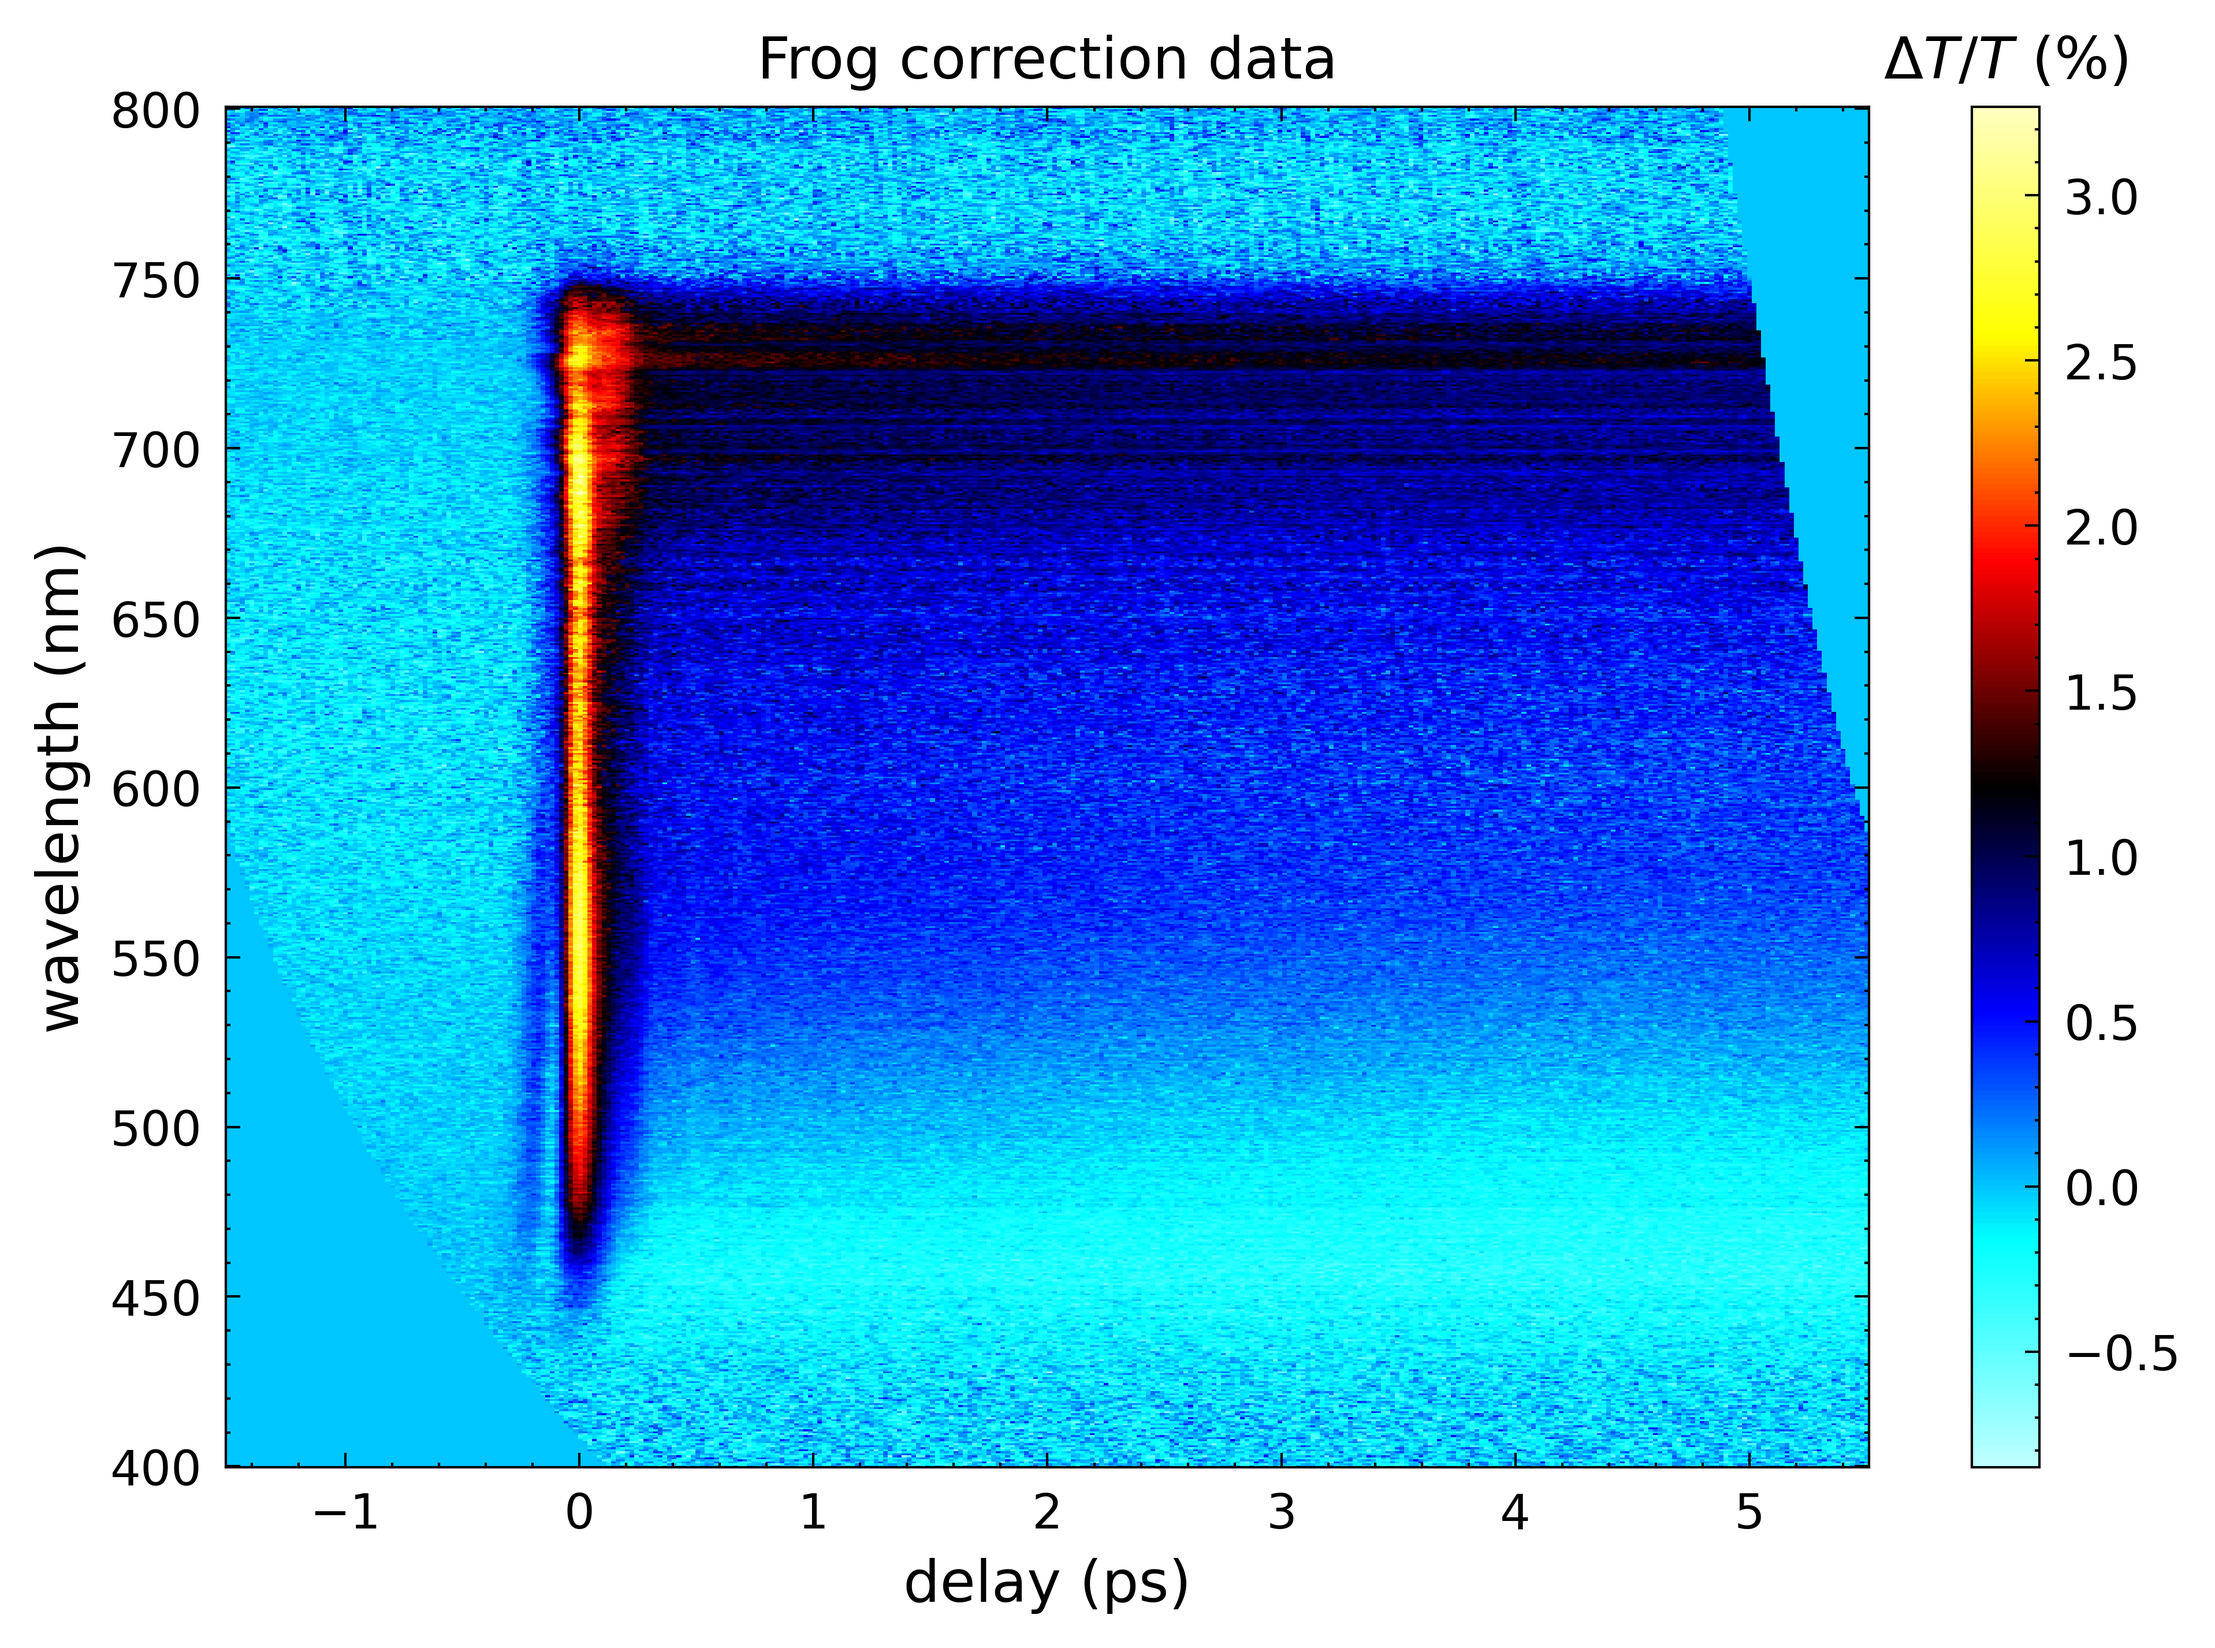
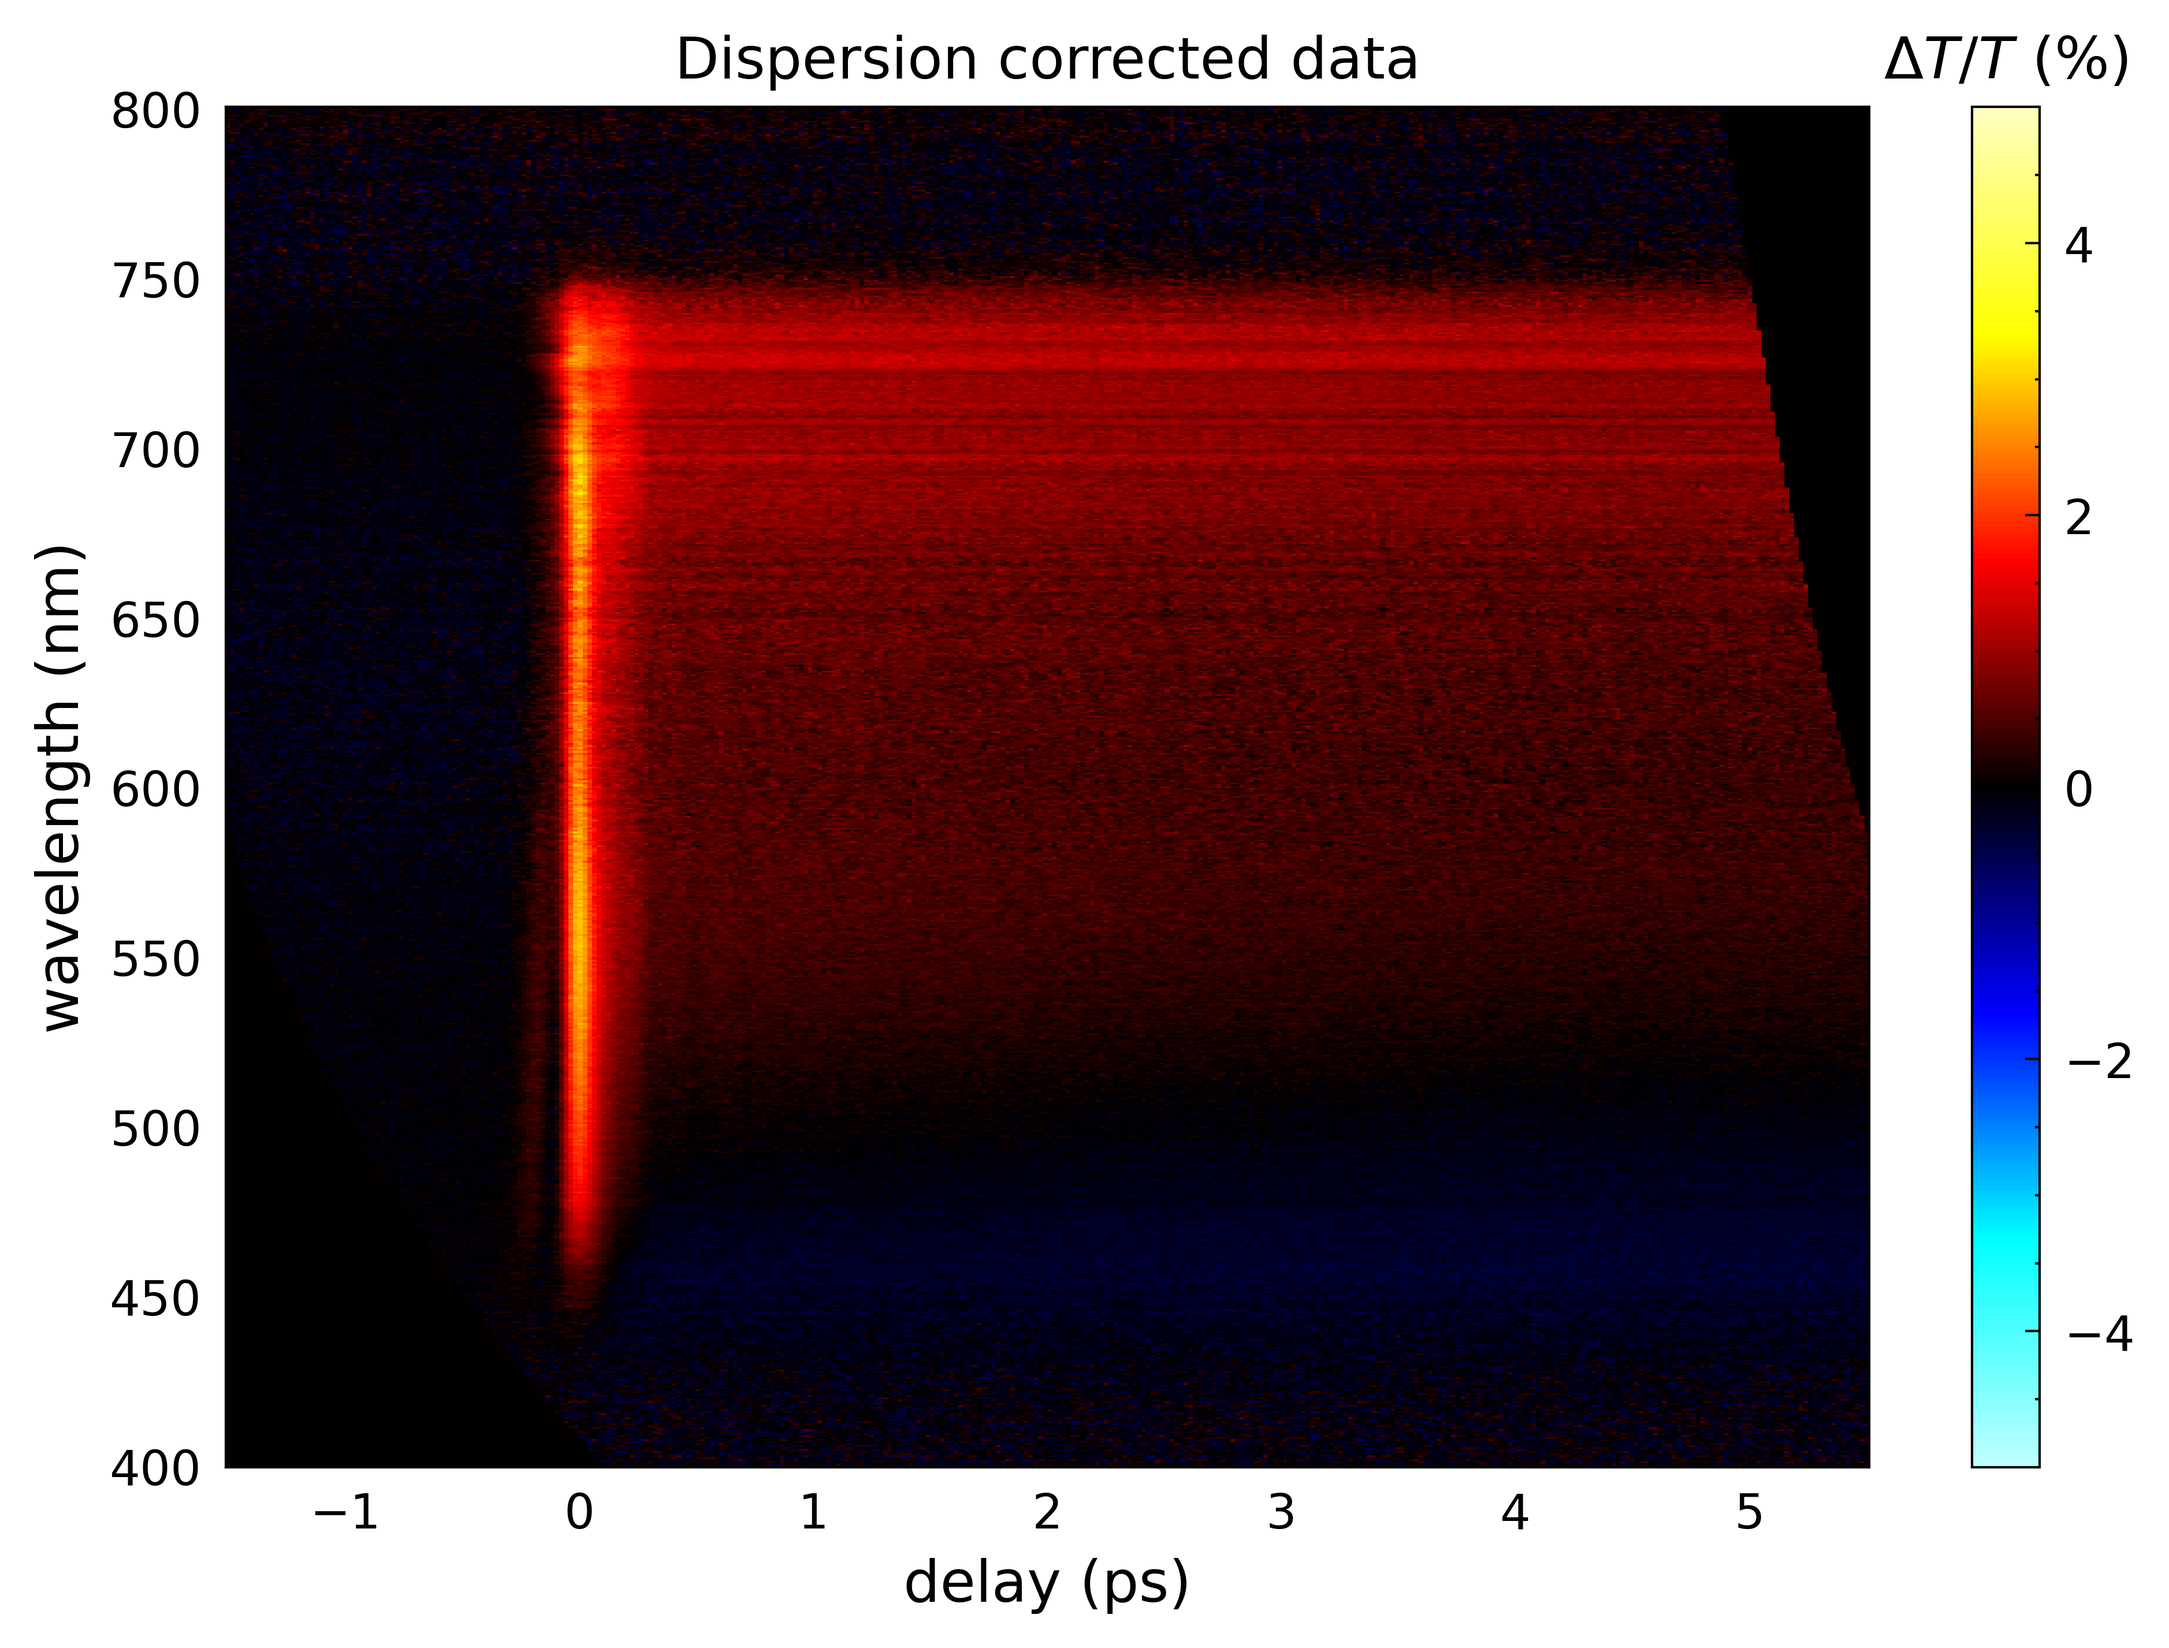
fixed opp functions so that examples worke again

diff --git a/udkm/opp/functions.py b/udkm/opp/functions.py
@@ -36,9 +36,15 @@ def get_scan_parameter(parameter_file_name, line):
     params["bool_force_reload"] = False
 
     params["rep_rate"] = 5000
-    params["pump_angle"] = 8  # Wert aus dem Lab Book
+    params["pump_angle"] = 8  # Value from labbook
     params["probe_method"] = "transmission"
     params["symmetric_colormap"] = True
+
+    # default values for dispersion correciton
+    params["method"] = "max"
+    params["range_wl"] = [450, 740]
+    params["degree"] = 3
+    params["file"] = False
 
     params["prefix"] = "Spectro1_"
 
@@ -122,20 +128,20 @@ def load_data_average(params):
           scan["time"]+" " + str(scan["T"])+"K " + str(scan["fluence"])+"mJ/cm^2 ")
     if scan["symmetric_colormap"]:
         if "signal_level" in params:
-            c_min = -1*params["signal_level"]
-            c_max = params["signal_level"]
+            scan["c_min"] = -1*params["signal_level"]
+            scan["c_max"] = params["signal_level"]
         else:
-            c_min = -1*np.max(np.abs(scan["data_averaged"]))
-            c_max = 1*np.max(np.abs(scan["data_averaged"]))
+            scan["c_min"] = -1*np.max(np.abs(scan["data_averaged"]))
+            scan["c_max"] = 1*np.max(np.abs(scan["data_averaged"]))
     else:
-        c_min = np.min(scan["data_averaged"])
-        c_max = np.max(scan["data_averaged"])
+        scan["c_min"] = np.min(scan["data_averaged"])
+        scan["c_max"] = np.max(scan["data_averaged"])
 
     X, Y = np.meshgrid(scan["delay_raw_unique"], scan["wavelength"])
 
     plt.figure(1, figsize=(5.2/0.68, 5.2))
     plt.pcolormesh(X, Y, 100*scan["data_averaged"],
-                   cmap=colors.fireice(), vmin=100*c_min, vmax=100*c_max, shading='nearest')
+                   cmap=colors.fireice(), vmin=100*scan["c_min"], vmax=100*scan["c_max"], shading='nearest')
     plt.xlabel(r'delay (ps)')
     plt.ylabel(r'wavelength (nm)')
 
@@ -186,20 +192,20 @@ def load_data(params):
 
     if scan["symmetric_colormap"]:
         if "signal_level" in params:
-            c_min = -1*params["signal_level"]
-            c_max = params["signal_level"]
+            scan["c_min"] = -1*params["signal_level"]
+            scan["c_max"] = params["signal_level"]
         else:
-            c_min = -1*np.max(np.abs(scan["data_averaged"]))
-            c_max = 1*np.max(np.abs(scan["data_averaged"]))
+            scan["c_min"] = -1*np.max(np.abs(scan["data_averaged"]))
+            scan["c_max"] = 1*np.max(np.abs(scan["data_averaged"]))
     else:
-        c_min = np.min(scan["data_averaged"])
-        c_max = np.max(scan["data_averaged"])
+        scan["c_min"] = np.min(scan["data_averaged"])
+        scan["c_max"] = np.max(scan["data_averaged"])
 
     X, Y = np.meshgrid(scan["delay_raw_unique"], scan["wavelength"])
 
     plt.figure(1, figsize=(5.2/0.68, 5.2))
     plt.pcolormesh(X, Y, 100*scan["data_averaged"],
-                   cmap=colors.fireice(), vmin=c_min, vmax=c_max, shading='nearest')
+                   cmap=colors.fireice(), vmin=100*scan["c_min"], vmax=100*scan["c_max"], shading='nearest')
     plt.xlabel(r'delay (ps)')
     plt.ylabel(r'wavelength (nm)')
 
@@ -250,7 +256,7 @@ def load_data(params):
             scan[entry] = params[entry]
 
     # generate wl slices
-    if "wl_slices" in scan:
+    if "slice_wl" in scan:
         wl_slices = len(scan["slice_wl"])
         scan["wl_labels"] = list()
         if wl_slices > 0:
@@ -481,7 +487,7 @@ def frog_fit(scan):
     file = scan["file"]
     ww = np.arange(400, 801)
 
-    if file is None:
+    if file is False:
         if method == 'maxSlope':
             I0 = np.argmax(np.diff(data, axis=1), axis=1)
         elif method == 'minSlope':
@@ -541,10 +547,10 @@ def frog_fit(scan):
             plt.ylabel(r'wavelength (nm)')
             plt.grid(True)
             plt.legend(loc='upper left')
-            plt.title('Frog Fit')
+            plt.title('Fit of dispersion correction')
 
             ff = ffLoaded['ff']
-            print('FROG file loaded:', file)
+            print('Dispersion correction loaded:', file)
 
     scan["ff"] = ff
 
@@ -572,10 +578,10 @@ def frog_corr(scan):
     plt.figure(3, figsize=(5.2/0.68, 5.2))
     plt.gcf().clear()
     plt.pcolormesh(X, Y, 100*scan["frog_data"],
-                   cmap=colors.fireice(), vmin=100*np.min(scan["frog_data"]), vmax=100*np.max(scan["frog_data"]),
+                   cmap=colors.fireice(), vmin=100*scan["c_min"], vmax=100*scan["c_max"],
                    shading='nearest')
 
-    plt.title('Frog correction data')
+    plt.title('Dispersion corrected data')
     plt.xlabel(r'delay (ps)')
     plt.ylabel(r'wavelength (nm)')
 

diff --git a/udkm/opp/example/example2_opp.py b/udkm/opp/example/example2_opp.py
@@ -13,7 +13,7 @@ params = opp.get_scan_parameter(parameter_file_name, line)
 params["data_directory"] = "data\\"
 params["probe_method"] = "transmission"
 
-params["bool_force_reload"] = False
+params["bool_force_reload"] = True
 
 params["slice_wl"] = [475, 525, 600,  725]
 params["slice_wl_width"] = [10, 10,  10, 10]
@@ -31,12 +31,25 @@ params["delay_max"] = 100
 #params["wl_min"] = 1100
 #params["wl_max"] = 2500
 
-tst = 2
-scan = opp.load_data(params)
 
+# values for dispersion correction
+params["method"] = "max"
+params["range_wl"] = [[455, 466], [520, 550], [675, 745]]
+params["degree"] = 3
+params["file"] = False
+
+
+scan = opp.load_data(params)
+plt.savefig("plot_standard\\" + scan["id"]+".png")
 
 opp.plot_overview(scan)
 plt.savefig("plot_overview\\" + scan["id"]+".png")
 
+
+opp.frog_fit(scan)
+plt.savefig("plot_fitfunction\\" + scan["id"]+".png")
+
+opp.frog_corr(scan)
+plt.savefig("plot_frogcorr\\" + scan["id"]+".png")
+
 opp.save_scan(scan)
-scan2 = opp.load_scan(params["date"], params["time"], params["scan_directory"])

diff --git a/udkm/opp/example/example3_opp.py b/udkm/opp/example/example3_opp.py
@@ -24,6 +24,7 @@ params["bool_force_reload"] = True
 params["t0"] = -2675.5
 params["exclude_loops"] = []
 params["symmetric_colormap"] = True
+params["signal_level"] = 0.05
 
 params["delay_min"] = -1
 params["delay_max"] = 5.5
@@ -31,22 +32,25 @@ params["delay_max"] = 5.5
 params["wl_min"] = 1100
 params["wl_max"] = 2500
 
-# values for frog_fit
+# values for dispersion correction
 params["method"] = "max"
 params["range_wl"] = [450, 740]
 params["degree"] = 5
-params["file"] = None
+params["file"] = False
 
 
 scan = opp.load_data(params)
 plt.savefig("plot_standard\\" + scan["id"]+".png")
-# opp.save_scan(scan)
+
+opp.plot_overview(scan)
 
 opp.frog_fit(scan)
 plt.savefig("plot_fitfunction\\" + scan["id"]+".png")
 
 opp.frog_corr(scan)
 plt.savefig("plot_frogcorr\\" + scan["id"]+".png")
+
+opp.save_scan(scan)
 
 # opp.plot_overview(scan)
 #plt.savefig("plot_overview\\" + scan["id"]+".png")

diff --git a/udkm/opp/example/example1_opp.py b/udkm/opp/example/example1_opp.py
@@ -29,7 +29,7 @@ params["slice_delay_width"] = [0.5]
 
 params["t0"] = -2008.75
 params["exclude_loops"] = []
-params["symmetric_colormap"] = False
+params["symmetric_colormap"] = True
 
 params["delay_min"] = -1
 params["delay_max"] = 4
